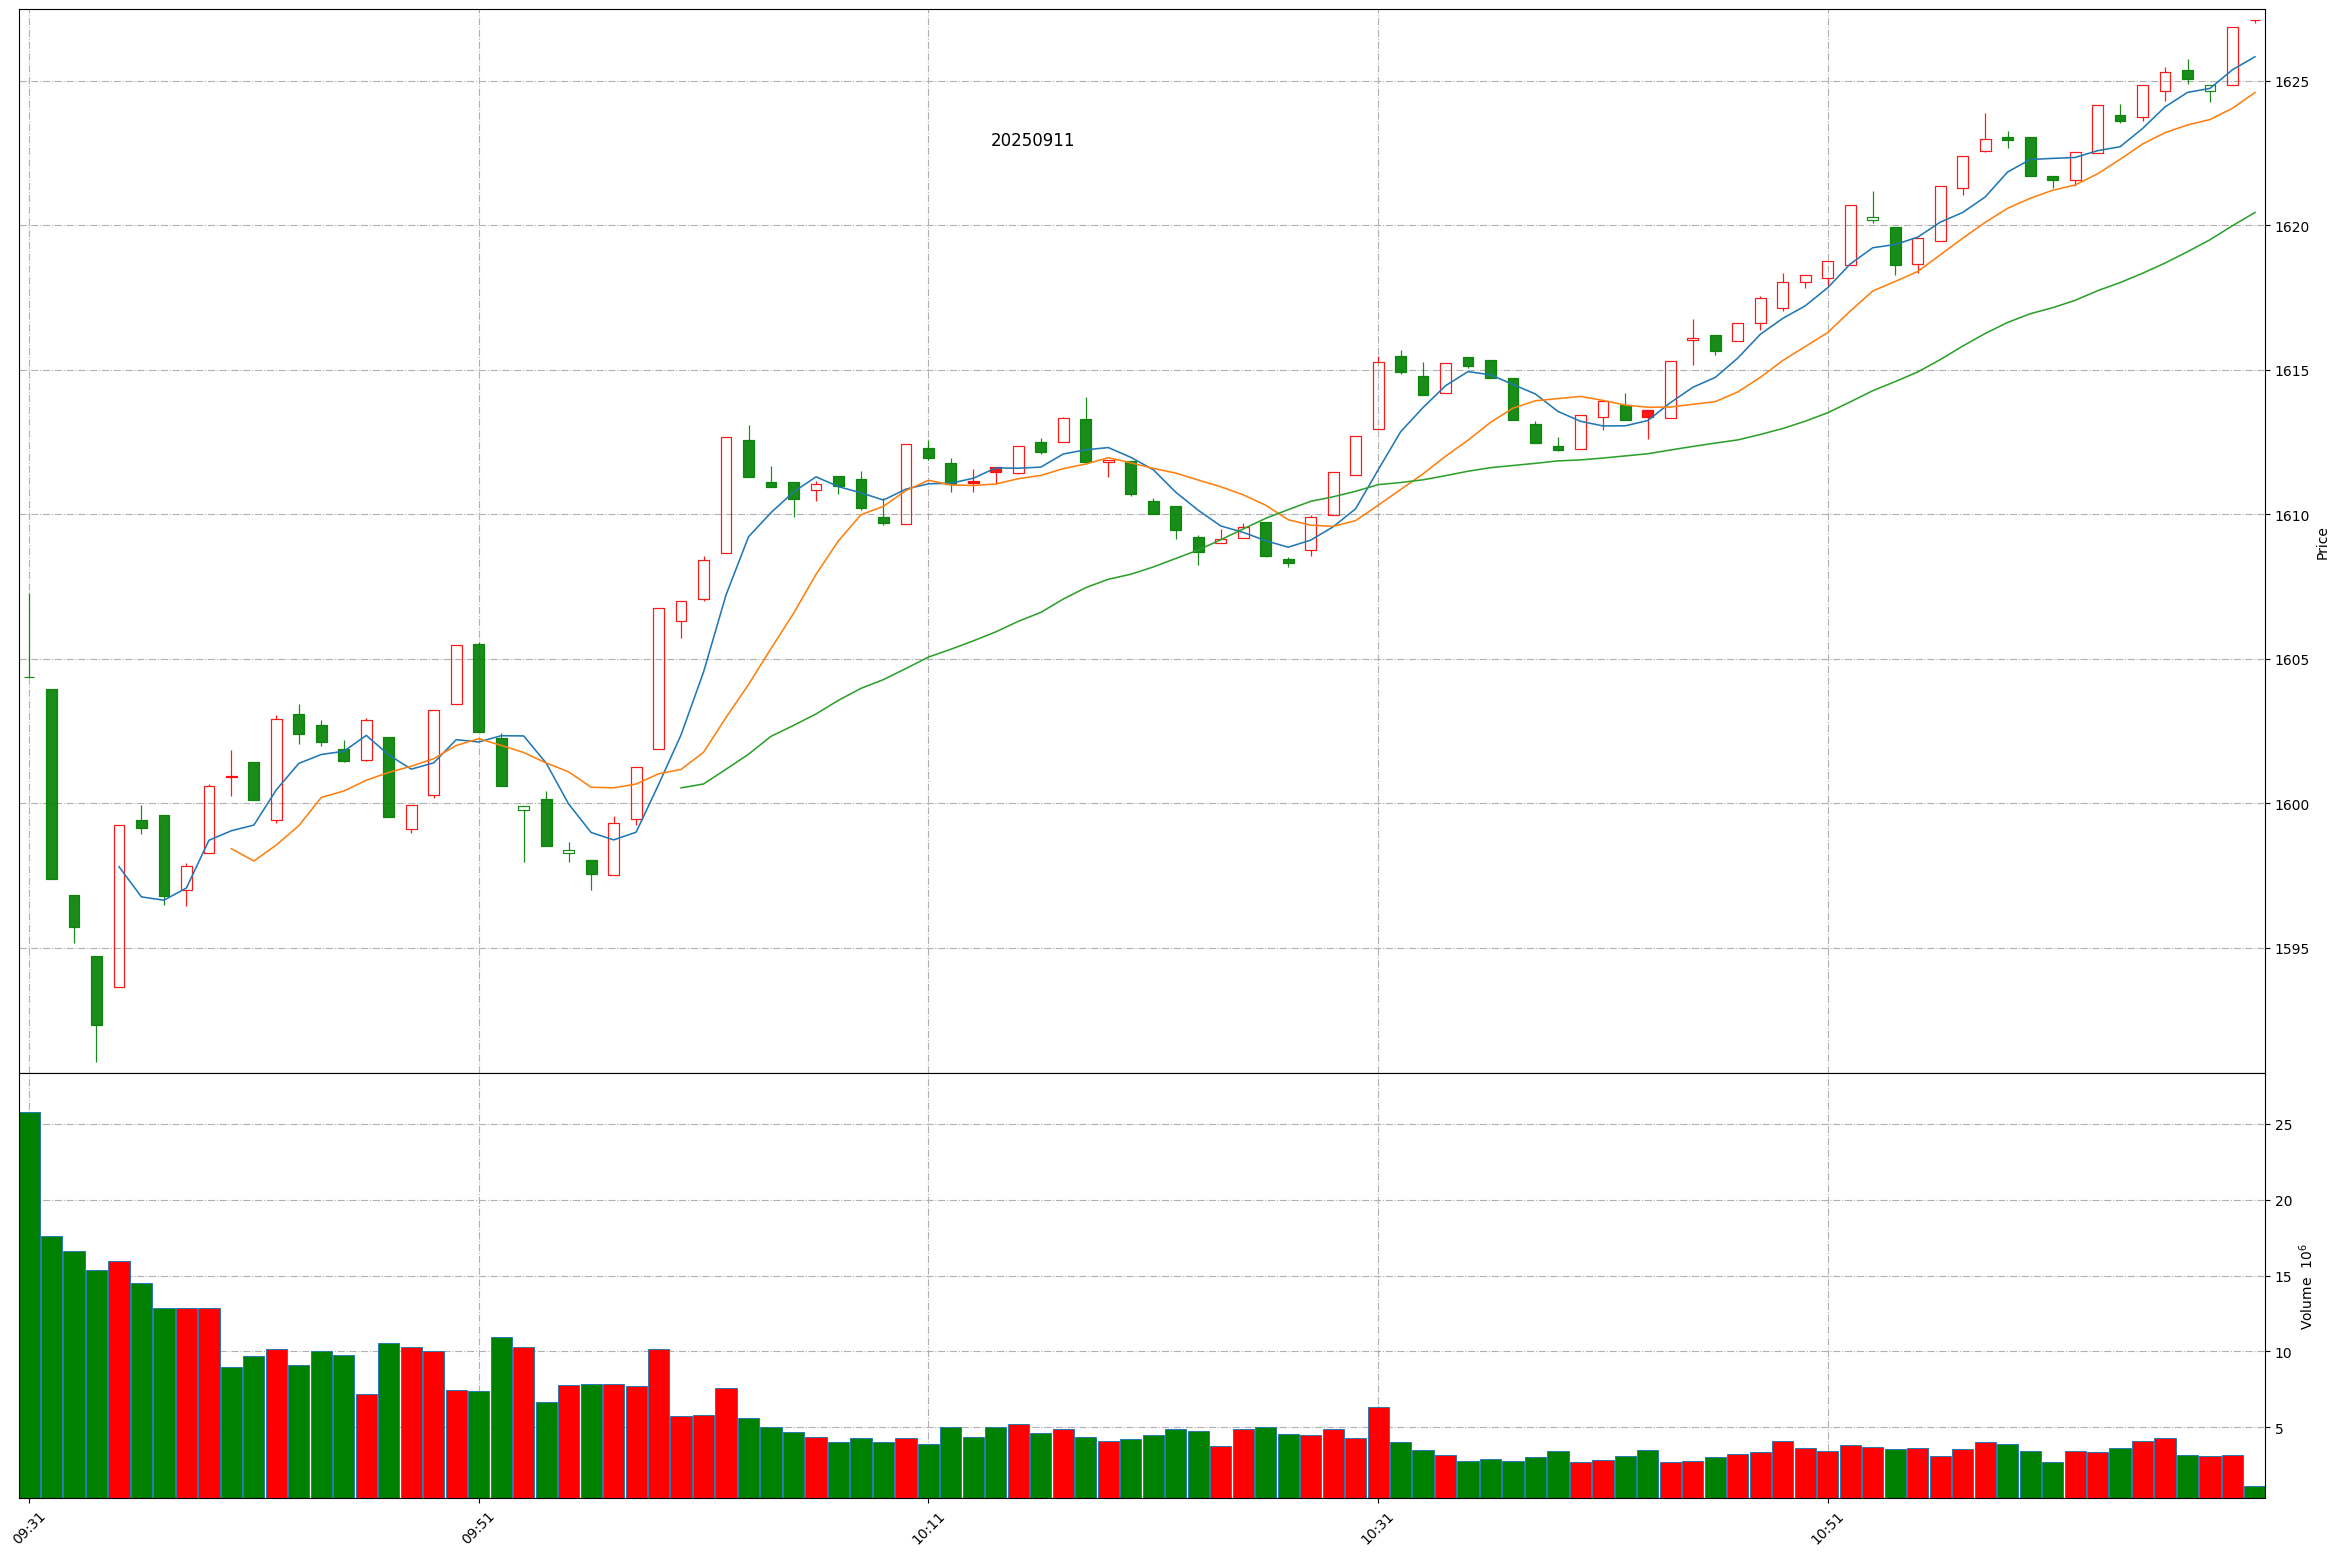
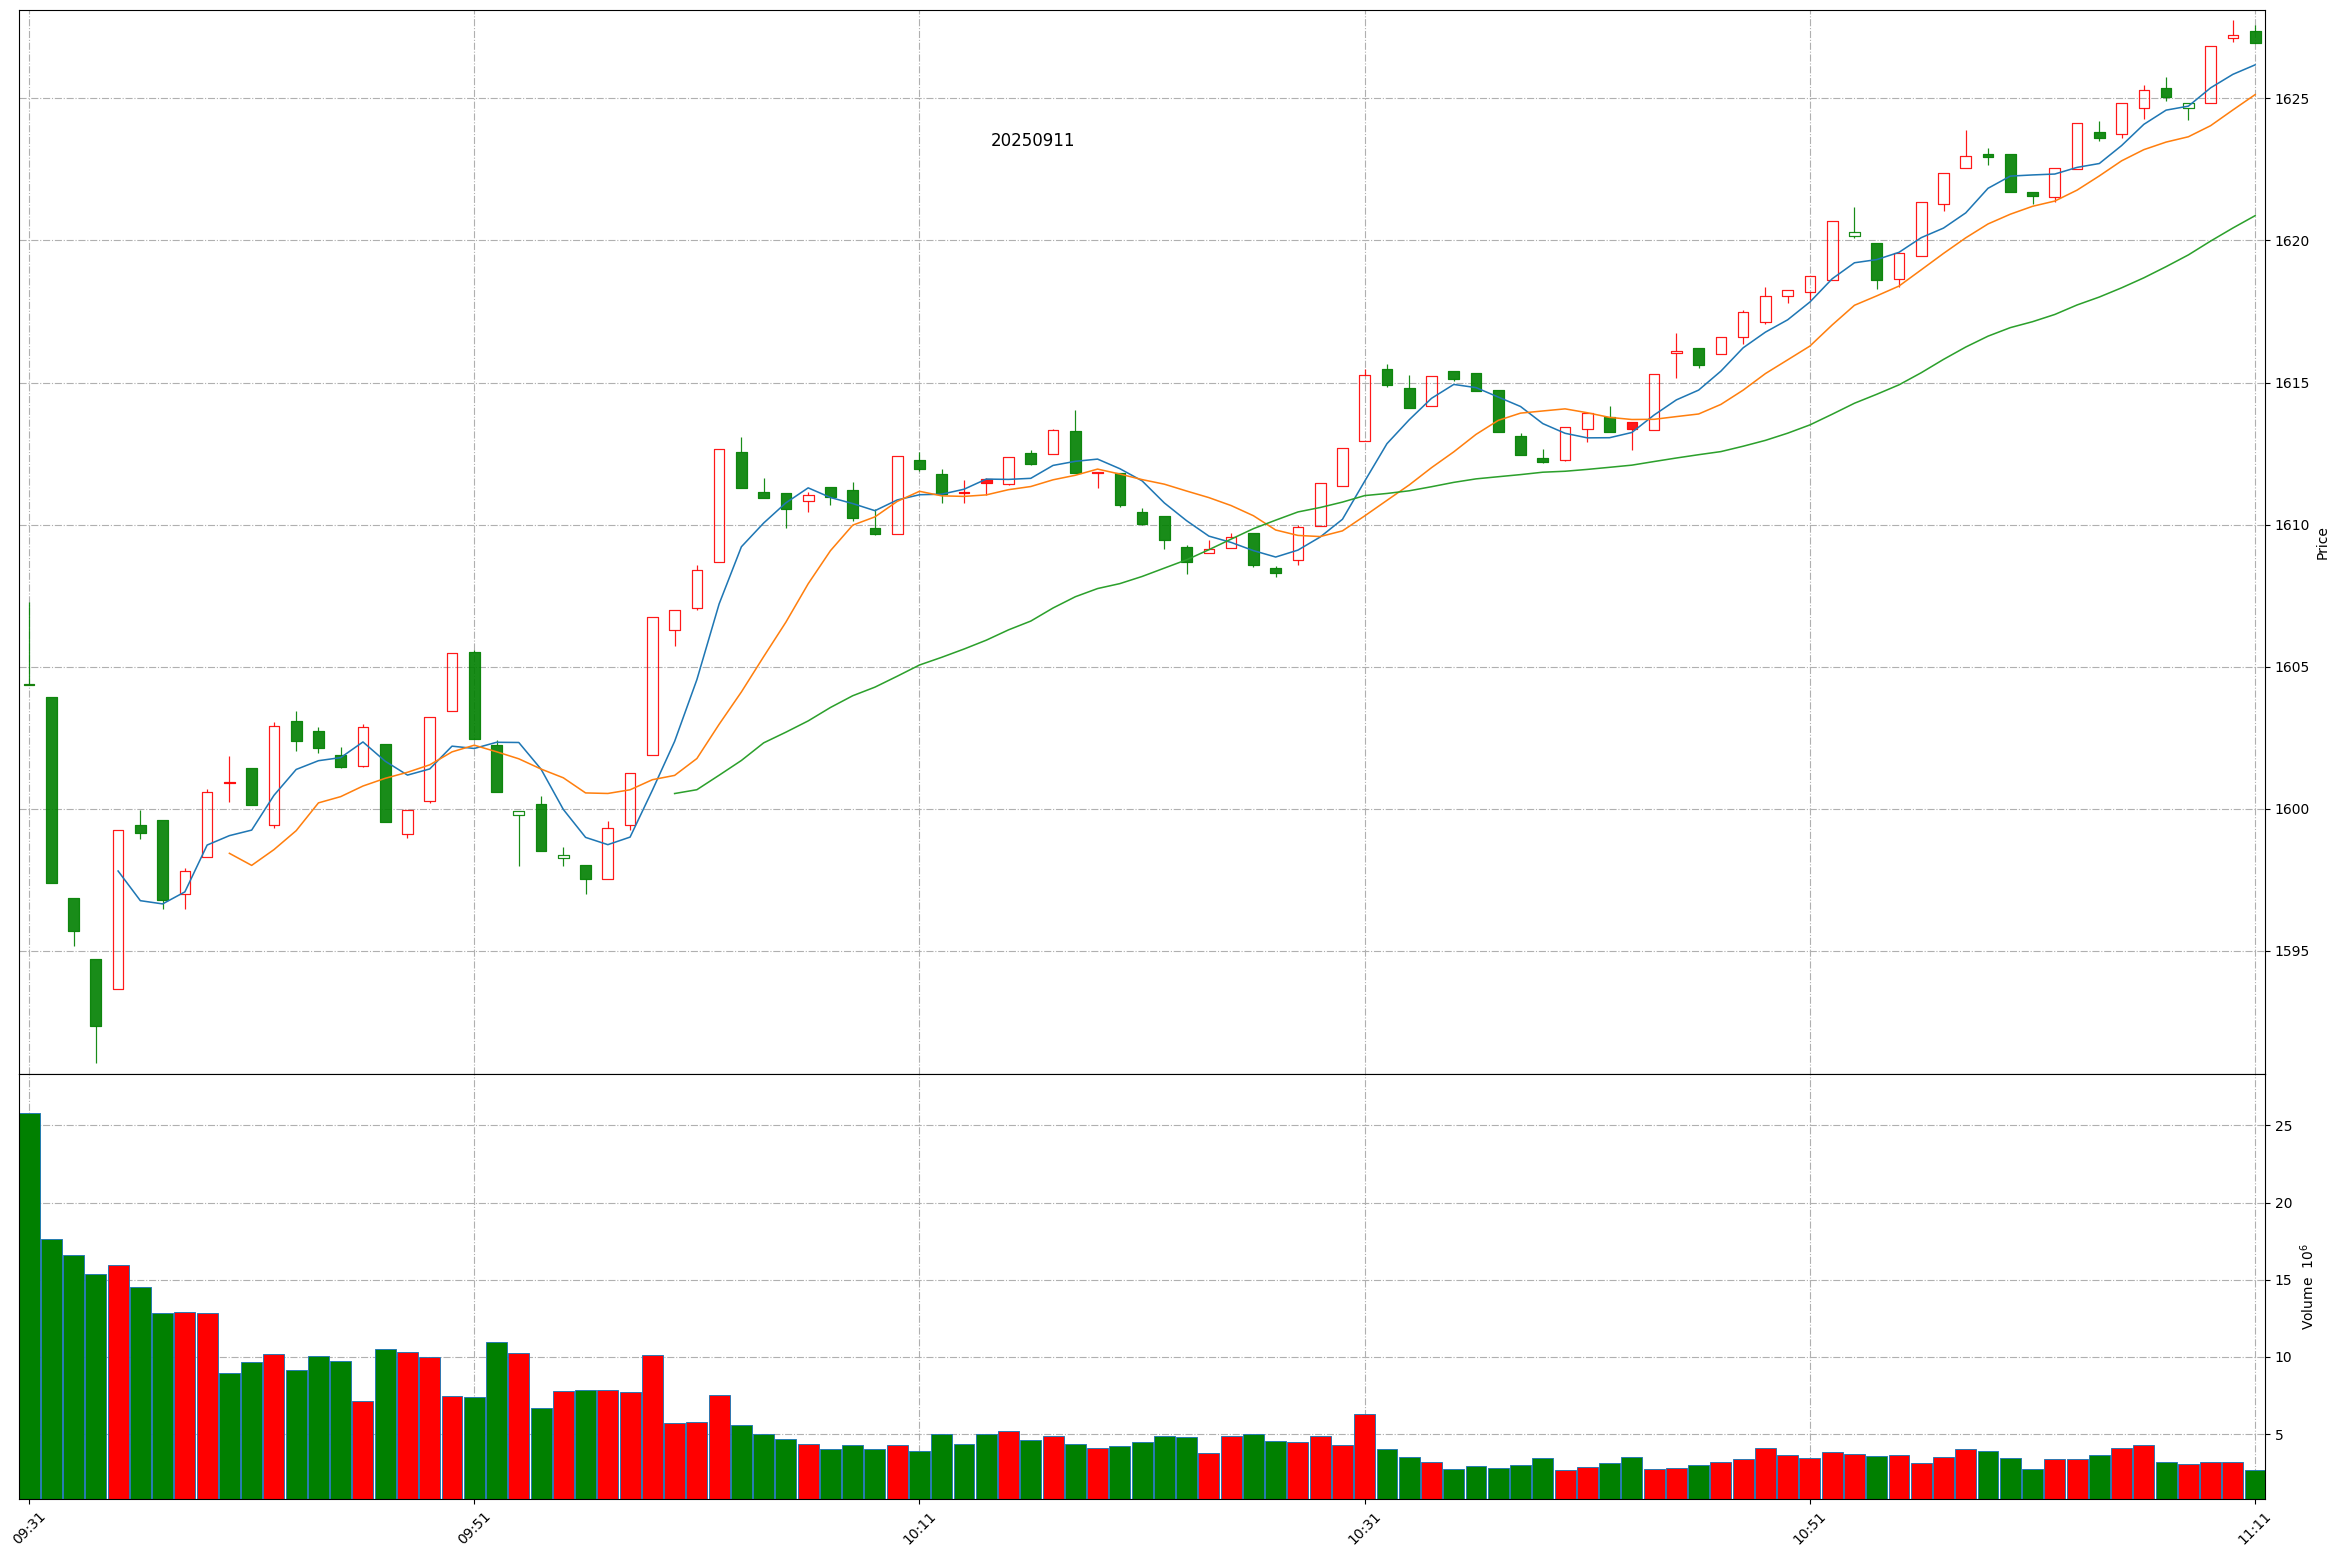
Github action update at 2025-09-11 11:10:58.

diff --git a/README.md b/README.md
@@ -1,11 +1,11 @@
 
 # Daily-A-share-market-quotes 每日 A 股指数（5min 更新）- 20250911
 
-### 上证指数 20250911 11:9
+### 上证指数 20250911 11:10
 ![](./fig/2025/9/20250911-sh000001.png)
 
-### 深证成指 20250911 11:9
+### 深证成指 20250911 11:10
 ![](./fig/2025/9/20250911-sz399001.png)
 
-### 北证50 20250911 11:9
+### 北证50 20250911 11:10
 ![](./fig/2025/9/20250911-bj899050.png)
